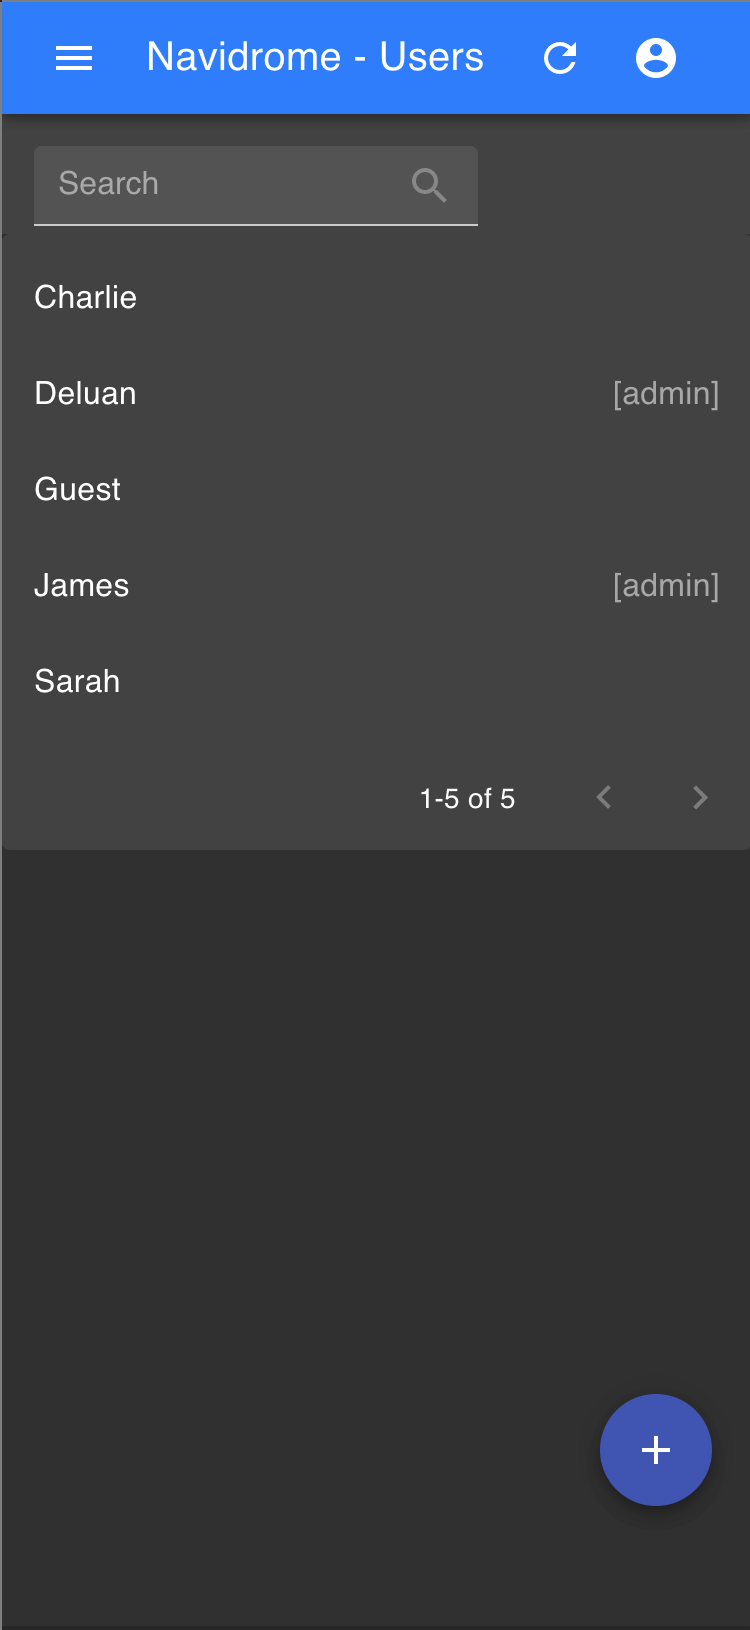
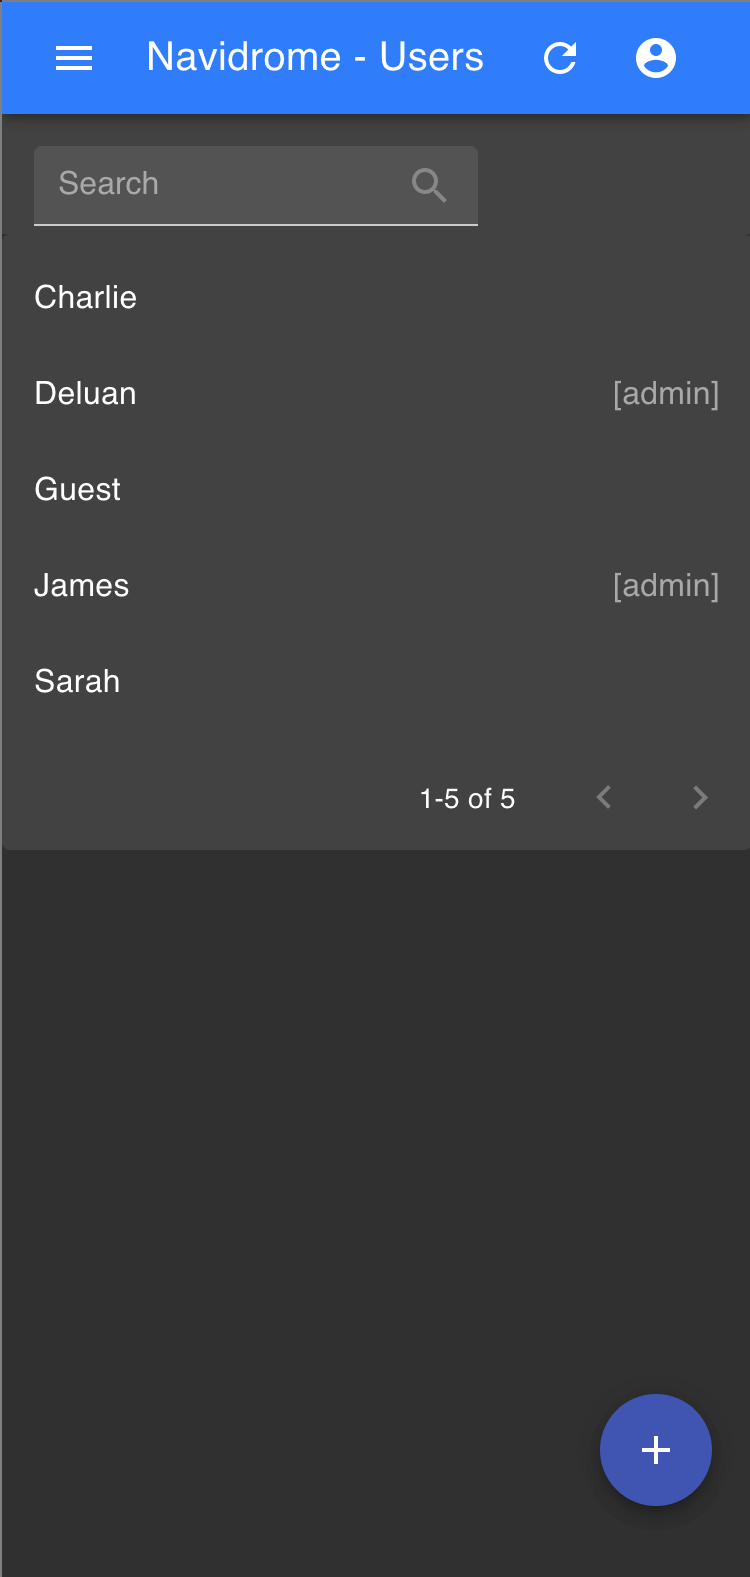
docs: fix screenshots alignment

diff --git a/README.md b/README.md
@@ -92,9 +92,9 @@ user.
 
 <p align="center">
 <p float="left">
-    <img width="300" src="https://raw.githubusercontent.com/deluan/navidrome/master/.github/screenshots/screenshot-login-mobile.png">
-    <img width="300" src="https://raw.githubusercontent.com/deluan/navidrome/master/.github/screenshots/screenshot-mobile.png">
-    <img width="300" src="https://raw.githubusercontent.com/deluan/navidrome/master/.github/screenshots/screenshot-users-mobile.png">
+    <img width="270" src="https://raw.githubusercontent.com/deluan/navidrome/master/.github/screenshots/screenshot-login-mobile.png">
+    <img width="270" src="https://raw.githubusercontent.com/deluan/navidrome/master/.github/screenshots/screenshot-mobile.png">
+    <img width="270" src="https://raw.githubusercontent.com/deluan/navidrome/master/.github/screenshots/screenshot-users-mobile.png">
     <img width="900"src="https://raw.githubusercontent.com/deluan/navidrome/master/.github/screenshots/screenshot-desktop.png">
 </p>
 </p>
